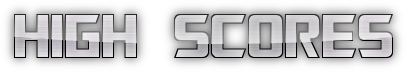
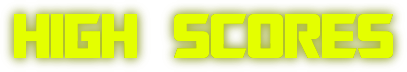
changed the color of the menu text, added file header comments.

diff --git a/CPS111BrickBreaker/gameworld.cpp b/CPS111BrickBreaker/gameworld.cpp
@@ -1,3 +1,9 @@
+/*CPS111 Team Project
+ *Team 4: Stephen Sidwell, Nick Marsceau, and Daniel Tan
+ *gameworld.cpp - this file contains method definitions for the
+ *                GameWorld class.
+ */
+
 #include "gameworld.h"
 #include "gameobject.h"
 #include <QFile>
@@ -61,17 +67,10 @@ void GameWorld::reset()
     worldObjects.erase(worldObjects.begin(), worldObjects.end());
 }
 
-//sets the total number of bricks that each level will have in it.
-//int GameWorld::totalNumBricks = 10;//this needs to correspond to the number of entries in each leveldata text document.
-
-/*this variable ^ is currently set at 10 so that when testing, it doesn't take 3 years to beat the level to see the end of the level.
- *this variable does need to be a multiple of 10. Setting it at 0 makes the level end immediately, but
- *you can't know for sure if bricks are generating properly because there aren't any to generate.*/
-
-
 //method to render a level
 void GameWorld::makeLevel()
 {
+    //totalNumBricks does need to be set to a multiple of 10.
     if (difficulty == 0){
         totalNumBricks = 20;
     }

diff --git a/CPS111BrickBreaker/savemanager.cpp b/CPS111BrickBreaker/savemanager.cpp
@@ -1,3 +1,9 @@
+/*CPS111 Team Project
+ *Team 4: Stephen Sidwell, Nick Marsceau, and Daniel Tan
+ *savemanager.cpp - this file contains method definitions for the
+ *                  SaveManager class.
+ */
+
 #include "savemanager.h"
 #include "gamewindow.h"
 #include "gameobject.h"
@@ -24,9 +30,7 @@
 using namespace std;
 
 SaveManager::SaveManager()
-    : filepath("gamesave.txt")
-{
-}
+    : filepath("gamesave.txt"){}
 
 void SaveManager::SaveGame()
 {
@@ -88,6 +92,8 @@ void SaveManager::SaveGame()
 
     //close file
     outfile.close();
+
+    qDebug() << "Saved Game.";
 }
 
 void SaveManager::LoadGame()
@@ -229,4 +235,5 @@ void SaveManager::LoadGame()
         GameWorld::accessWorld().setSpeedBall(true);
         gamewindow->turnSpeedBallButtonOn();
     }
+    qDebug() << "Loaded game.";
 }

diff --git a/CPS111BrickBreaker/mainwindow.cpp b/CPS111BrickBreaker/mainwindow.cpp
@@ -1,3 +1,9 @@
+/*CPS111 Team Project
+ *Team 4: Stephen Sidwell, Nick Marsceau, and Daniel Tan
+ *mainwindow.cpp - this file contains method definitions for the
+ *                 MainWindow class.
+ */
+
 #include "mainwindow.h"
 #include "ui_mainwindow.h"
 #include "inputdialog.h"
@@ -66,14 +72,16 @@ void MainWindow::on_btnHighScores_clicked()
 
 void MainWindow::on_btnLoad_clicked()
 {
+    //eliminate the possibility of clicking the load button twice in a row
     mainui->btnLoad->setEnabled(false);
 
+    //create save manager, load the game, and then delete the pointer to the save manager
     SaveManager * saver = new SaveManager();
     saver->LoadGame();
     delete saver;
 
+    //reenable the button
     mainui->btnLoad->setEnabled(true);
-    qDebug() << "Loaded game.";
 
 }
 

diff --git a/CPS111BrickBreaker/gamewindow.cpp b/CPS111BrickBreaker/gamewindow.cpp
@@ -1,3 +1,9 @@
+/*CPS111 Team Project
+ *Team 4: Stephen Sidwell, Nick Marsceau, and Daniel Tan
+ *gamewindow.cpp - this file contains method definitions for the
+ *                 GameWindow, GameWidget, GUIPaddle, GUIBrick, and GUIBall clases.
+ */
+
 #include "gamewindow.h"
 #include "gameobject.h"
 #include "gameworld.h"
@@ -399,16 +405,13 @@ void GameWindow::on_btnSave_clicked()
     //eliminate the possiblity of double clicking the button
     gameui->btnSave->setEnabled(false);
 
+    //create save manager, save the game, then delete the pointer to the save manager
     SaveManager * saver = new SaveManager();
-
     saver->SaveGame();
-
     delete saver;
 
     //reenable the save game button
     gameui->btnSave->setEnabled(true);
-
-    qDebug() << "Game Saved.";
 }
 
 

diff --git a/CPS111BrickBreaker/gamewindow.h b/CPS111BrickBreaker/gamewindow.h
@@ -1,3 +1,9 @@
+/*CPS111 Team Project
+ *Team 4: Stephen Sidwell, Nick Marsceau, and Daniel Tan
+ *gamewindow.h - this file contains class definitions and method declarations for
+ *               the GameWindow, GameWidget, GUIPaddle, GUIBall, and GUIBrick classes.
+ */
+
 #ifndef GAMEWINDOW_H
 #define GAMEWINDOW_H
 
@@ -163,8 +169,6 @@ public:
         delete brick;
     }
 };
-
-void GUIUnitTests();
 
 
 #endif // GAMEWINDOW_H

diff --git a/CPS111BrickBreaker/gameobject.cpp b/CPS111BrickBreaker/gameobject.cpp
@@ -1,3 +1,10 @@
+/*CPS111 Team Project
+ *Team 4: Stephen Sidwell, Nick Marsceau, and Daniel Tan
+ *gameobject.cpp - this file contains method definitions for the
+ *                 GameObject, Paddle, Ball, and Brick classes. It also
+ *                 contains the definition for collisionUnitTests().
+ */
+
 #include "gameobject.h"
 #include "gamewindow.h"
 #include "gameworld.h"

diff --git a/CPS111BrickBreaker/main.cpp b/CPS111BrickBreaker/main.cpp
@@ -1,3 +1,10 @@
+/*CPS111 Team Project
+ *Team 4: Stephen Sidwell, Nick Marsceau, and Daniel Tan
+ *main.cpp - this file contains the main method that runs the game.
+ *           It also contains the function declaration for runUnitTests()
+ *           that runs the other various unit test functions.
+ */
+
 #include "mainwindow.h"
 #include "gameobject.h"
 #include "gamewindow.h"

diff --git a/CPS111BrickBreaker/highscore.cpp b/CPS111BrickBreaker/highscore.cpp
@@ -1,3 +1,10 @@
+/*CPS111 Team Project
+ *Team 4: Stephen Sidwell, Nick Marsceau, and Daniel Tan
+ *highscore.cpp - this file contains method definitions for the
+ *                Score and HighScoreManager classes. It also has the
+ *                definition for highScoreUnitTests().
+ */
+
 #include <QWidget>
 #include <string>
 #include <QString>

diff --git a/CPS111BrickBreaker/multiplayergui.cpp b/CPS111BrickBreaker/multiplayergui.cpp
@@ -1,3 +1,9 @@
+/*CPS111 Team Project
+ *Team 4: Stephen Sidwell, Nick Marsceau, and Daniel Tan
+ *multiplayergui.cpp - this file contains method definitions for the
+ *                     MultiplayerGUI, ProcessThread, and ServerProcessThread classes.
+ */
+
 #include "multiplayergui.h"
 #include "ui_multiplayergui.h"
 #include "gameobject.h"

diff --git a/CPS111BrickBreaker/multiplayergui.h b/CPS111BrickBreaker/multiplayergui.h
@@ -1,3 +1,9 @@
+/*CPS111 Team Project
+ *Team 4: Stephen Sidwell, Nick Marsceau, and Daniel Tan
+ *multiplayergui.h - this file contains class definitions and method declarations for the
+ *                   MultiplayerGUI, ProcessThread and ServerProcessThread classes.
+ */
+
 #ifndef MULTIPLAYERGUI_H
 #define MULTIPLAYERGUI_H
 

diff --git a/CPS111BrickBreaker/highscorewindow.cpp b/CPS111BrickBreaker/highscorewindow.cpp
@@ -1,3 +1,9 @@
+/*CPS111 Team Project
+ *Team 4: Stephen Sidwell, Nick Marsceau, and Daniel Tan
+ *highscorewindow.cpp - this file contains method definitions for the
+ *                      HighScoreWindow class.
+ */
+
 #include "highscorewindow.h"
 #include "highscore.h"
 #include "ui_highscorewindow.h"

diff --git a/CPS111BrickBreaker/gameobject.h b/CPS111BrickBreaker/gameobject.h
@@ -1,3 +1,9 @@
+/*CPS111 Team Project
+ *Team 4: Stephen Sidwell, Nick Marsceau, and Daniel Tan
+ *gameobject.h - this file contains class definitions and method declarations for the
+ *               GameObject, Brick, Paddle, Ball, and PowerUp classes.
+ */
+
 #ifndef GAMEOBJECT_H
 #define GAMEOBJECT_H
 
